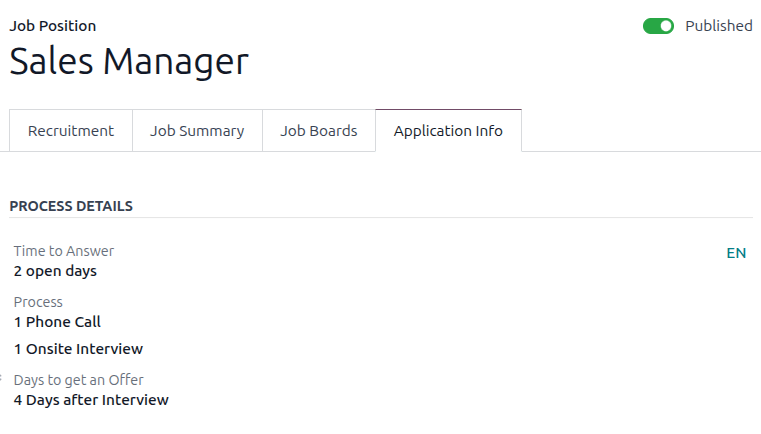
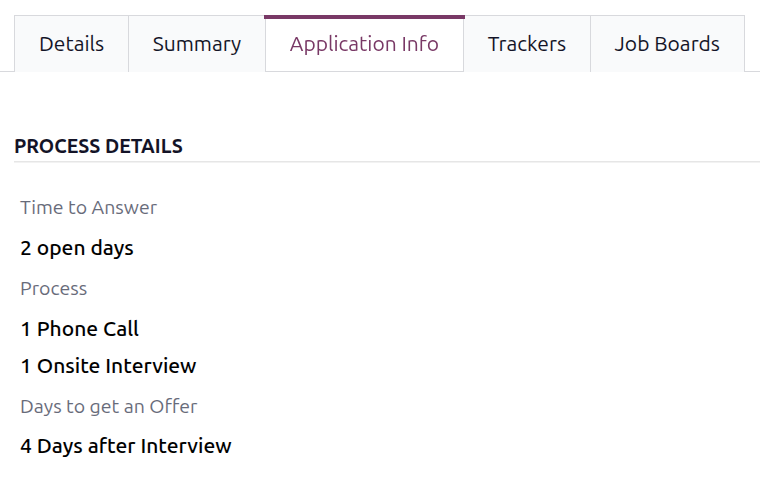
[IMP] Recruitment - Update job positions
X-original-commit: 04b95724496629f7d65195b7653931ffadc80f96

diff --git a/content/applications/hr/recruitment/new_job.rst b/content/applications/hr/recruitment/new_job.rst
@@ -2,28 +2,30 @@
 Job positions
 =============
 
-In Odoo's **Recruitment** application, all job positions are shown on the default dashboard in the
-**Recruitment** app, which includes both active and inactive positions.
+In Odoo's **Recruitment** application, all job positions are shown on the default *Job Positions*
+dashboard, which includes both active and inactive positions.
 
 Each job position is shown in an individual Kanban card. If the job position is active, and
-candidates can apply, a :guilabel:`PUBLISHED` banner appears in the top-right corner of the card.
+candidates can apply, a green :guilabel:`Published` banner appears in the top-right corner of the
+card.
 
-View submitted applications by clicking anywhere on a job position card.
+View submitted applications by clicking anywhere on a job position card, except the
+:icon:`fa-clock-o` :guilabel:`(Activities)` icon, the :guilabel:`Job Page` button, or the
+:guilabel:`Configure` button.
 
 .. image:: new_job/jobs.png
    :alt: Main dashboard view of Recruitment app showing all job positions.
 
-.. _job-position/create-job-position:
+.. _recruitment/new_job/create-job-position:
 
-Create a new job position
-=========================
+Create a job position
+=====================
 
-To create a new job position from the main dashboard in the **Recruitment** app, click the
-:guilabel:`New` button in the top-left corner, and a :guilabel:`Create a Job Position` pop-up window
-appears.
+To create a job position from the main dashboard in the **Recruitment** app, click the
+:guilabel:`New` button in the top-left corner, and a *Create a Job Position* pop-up window appears.
 
 First, enter the name of the :guilabel:`Job Position` (such as `Sales Manager`, `Mechanical
-Engineer`, etc.) in the field.
+Engineer`, etc.) in the corresponding field.
 
 Next, enter an :guilabel:`Application email` by typing in the first half of the email address in the
 first field, then select the second half of the email using the drop-down menu in the second field.
@@ -36,143 +38,177 @@ button to delete it.
 .. image:: new_job/job-title.png
    :alt: Create a new job position.
 
-Once the job position has been created, it appears as a card in the Kanban view on the main
-**Recruitment** app dashboard.
+.. note::
+   Once the :guilabel:`Create` button is clicked, the *Applications* dashboard for the newly created
+   job loads. The *Applications* dashboard is empty, as there are no applicants. Click the
+   :guilabel:`Job Positions` breadcrumb to return to the main **Recruitment** app dashboard.
 
-.. _recruitment/new_job_position/edit:
+.. _recruitment/new_job/configure-job-position:
 
-Edit a new job position
------------------------
+Configure a job position
+------------------------
 
-After the job position is created, it is time to enter the details for the position. Click on the
-:icon:`fa-ellipsis-v` :guilabel:`(Dropdown menu)` icon in the upper-right corner of the relevant
-card to reveal several options, and then click :guilabel:`Configuration` to edit the details.
+Once the job position has been :ref:`created <recruitment/new_job/create-job-position>`, the details
+must be configured. On the main **Recruitment** app dashboard, click the :guilabel:`Configure`
+button at the end of the Kanban card, and the detailed job position form loads.
 
-.. image:: new_job/edit-job.png
-   :alt: Edit the job position card.
+Configure the *Details*, *Summary*, *Application Info*, and *Trackers* tabs, as described below.
 
-Recruitment tab
-~~~~~~~~~~~~~~~
+Details tab
+~~~~~~~~~~~
 
-All the basic information about the job position is listed under the :guilabel:`Recruitment` tab.
+All the basic details about the job position are housed in the *Details* tab.
 
 None of the fields are required, but it is important to configure and populate the
-:guilabel:`Department`, :guilabel:`Job Location`, :guilabel:`Employment Type` fields, and the
-:guilabel:`Job Summary` tab, as they are all visible to prospective applicants on the website.
+:guilabel:`Department`, :guilabel:`Job Location`, and :guilabel:`Employment Type` fields, as they
+are all visible to prospective applicants on the website.
 
 .. note::
-   Some fields listed below may not appear depending on the database configuration and other
-   installed applications.
+   Some fields listed below may not appear depending on the installed apps and database
+   configuration.
 
-The fields can be filled out as follows:
+Enter the information in the following sections.
 
+.. _recruitment/new_job/hiring-process:
+
+Hiring process section
+**********************
+
+- :guilabel:`Recruiter`: Select the person responsible for recruiting this role.
+- :guilabel:`Interviewers`: Select who should perform the interviews. Multiple people can be
+  selected.
+- :guilabel:`Interview Form`: Select an interview form that applicants fill out prior to their
+  interview.
+- :guilabel:`Email Alias`: Enter an email address to which applicants can send a resumé. Once
+  emailed, Odoo automatically creates an application for them. If an email was entered when creating
+  the job position, this field is populated.
+- :guilabel:`Website`: Select the website the job is published on.
+
+Job section
+***********
+
+- :guilabel:`Company`: Select the company the job is for. This field only appears if using a
+  multi-company database.
 - :guilabel:`Department`: Select the relevant department for the job position. This is visible on
   the website.
 - :guilabel:`Job Location`: Select the physical address for the job. If the job position is remote,
   leave this field blank. This is visible on the website.
-- :guilabel:`Industry`: Select the relevant industry the job position falls under. This field
-  corresponds to the industries on job boards. Odoo comes with 86 preconfigured industries. It is
-  *not* recommended to add a new industry, as it may hide the job position during some searched on
-  the various job boards.
-- :guilabel:`Email Alias`: Enter an email address to which applicants can send a resumé. Once
-  emailed, Odoo automatically creates an application for them. If an email was entered when creating
-  the job position, this field is populated.
-- :guilabel:`Employment Type`: select what type of position the job is, using the drop-down menu.
-  The default options are :guilabel:`Permanent`, :guilabel:`Temporary`, :guilabel:`Seasonal`,
-  :guilabel:`Full-Time`, :guilabel:`Intern`, :guilabel:`Student`, :guilabel:`Apprenticeship`,
-  :guilabel:`Thesis`, :guilabel:`Statutory`, and :guilabel:`Employee`. Depending on the installed
-  localization, other options may be available. This is visible on the website.
-- :guilabel:`Working Schedule`: Select the working schedule for the job position. Odoo provides one
-  working schedule by default, :guilabel:`Standard 40 hours/week`, but all working schedules in the
-  database are available.
+
+Job posting section
+*******************
+
+- :guilabel:`Published`: When the job position is ready to be published on the website, click the
+  :guilabel:`Published` toggle to publish the job position. The toggle changes to green, indicating
+  the listing is live on the website.
+- :guilabel:`Target`: Enter the number of employees to be hired for this position.
+- :guilabel:`Expected Skills`: Select all the desired skills for the job position in this field. To
+  add a skill, click the :icon:`fa-plus` :guilabel:`(plus sign)` icon, and select the *Category*,
+  *Skill*, and *Skill Level* for each skill added. The skills presented are :ref:`configured in the
+  Employees app <employees/skills>`.
+- :guilabel:`Expected Degree`: Select the level of education desired, using the drop-down menu. The
+  default options are: :guilabel:`Graduate`, :guilabel:`Bachelor Degree`, :guilabel:`Master Degree`,
+  and :guilabel:`Doctoral Degree`.
 - :guilabel:`Salary Range`: Enter both the minimum and maximum salaries offered for the position in
   the two fields. Then, set the last field to the time-frame for the salary range. The default
   options are :guilabel:`Hour`, :guilabel:`Day`, :guilabel:`Week`, :guilabel:`Bi-Week`,
   :guilabel:`Month`, and :guilabel:`Year`.
-- :guilabel:`Expected Skills`: Select all the desired skills for the job position, using the
-  drop-down menu. The skills presented are :ref:`configured in the Employees app
-  <employees/skills>`.
-- :guilabel:`Company`: Select the company the job is for. This field only appears if using a
-  multi-company database.
-- :guilabel:`Mission Dates`: Using the calendar selector, set the start date for the job position.
-  If the job is temporary and has a specific end date, set the end date in the second field.
-- :guilabel:`Target`: Enter the number of employees to be hired for this position.
-- :guilabel:`Website`: Select the website the job is published on.
-- :guilabel:`Recruiter`: Select the person responsible for recruiting this role.
-- :guilabel:`Interviewers`: Select who should perform the interviews. Multiple people can be
-  selected.
-- :guilabel:`Interview Form`: select an :ref:`Interview form <recruitment/interview>` that
-  applicants fill out prior to their interview.
+
+Contract section
+****************
+
+- :guilabel:`Employment Type`: Select what type of position the job is, using the drop-down menu.
+  The default options are :guilabel:`Permanent`, :guilabel:`Temporary`, :guilabel:`Interim`,
+  :guilabel:`Seasonal`, :guilabel:`Full-Time`, :guilabel:`Part-Time`, :guilabel:`Intern`,
+  :guilabel:`Student`, :guilabel:`Apprenticeship`, :guilabel:`Thesis`, :guilabel:`Statutory`, and
+  :guilabel:`Employee`. Depending on the installed localization, other options may be available.
+  This is visible on the website.
+- :guilabel:`Working Schedule`: Select the working schedule for the job position. Odoo provides one
+  working schedule by default, :guilabel:`Standard 40 hours/week`, but all working schedules in the
+  database are available.
 - :guilabel:`Contract Template`: Select a contract template to be used when offering the job to a
   candidate.
 
-.. image:: new_job/recruitment-tab.png
+.. image:: new_job/details.png
    :alt: The job information details in the Recruitment tab.
 
-Job summary tab
-~~~~~~~~~~~~~~~
+Summary tab
+~~~~~~~~~~~
 
-Enter the job description in the :guilabel:`Job Summary` tab. This description is visible on the
-website.
+Enter the complete job description in the *Summary* tab. This description is visible on the website,
+and should convey any relevant information for the position that is **not** covered or explained in
+the *Details* tab. This may include information such as specific tasks the job requires, any
+required past experience, or uncommon benefits or compensation.
 
-.. image:: new_job/job-summary.png
+.. image:: new_job/summary.png
    :alt: The summary of the position in the Job Summary tab.
+
+.. _recruitment/new_job/application_info:
 
 Application info tab
 ~~~~~~~~~~~~~~~~~~~~
 
-The :guilabel:`Process Details` section of the :guilabel:`Application Info` tab contains information
-that is displayed online for the job position. This informs the applicants of the timeline and steps
-for the recruitment process, so they know when to expect a reply.
+The *Process Details* section of the *Application Info* tab contains information that is displayed
+online for the job position. This informs the applicants of the timeline and steps for the
+recruitment process, so they know when to expect a reply.
 
 The following fields are populated by default, but can be modified to suit the recruitment timeline
 of the business:
 
-- :guilabel:`Time to Answer`: Enter the number of days before the applicant is contacted.
-  :guilabel:`2 open days` populates this field by default.
-- :guilabel:`Process`: Enter the various stages the candidate goes through during the recruitment
-  process. By default, two process steps are visible: :guilabel:`1 Phone Call` and :guilabel:`1
-  Onsite Interview`.
-- :guilabel:`Days to get an Offer`: Enter the number of days before the applicant should expect an
-  offer after the recruitment process has ended. The default is :guilabel:`4 Days after Interview`.
+- :guilabel:`Time to Answer`: The number of days before the applicant is contacted. :guilabel:`2
+  open days` populates this field by default.
+- :guilabel:`Process`: The various stages the candidate goes through during the recruitment process.
+  By default, two process steps are visible: :guilabel:`1 Phone Call` and :guilabel:`1 Onsite
+  Interview`.
+- :guilabel:`Days to get an Offer`: The number of days before the applicant should expect an offer
+  after the recruitment process has ended. The default is :guilabel:`4 Days after Interview`.
 
 .. image:: new_job/app-info.png
    :alt: Enter job information details in the recruitment tab.
 
 .. note::
-   The :guilabel:`Process Details` section is a text field. All answers are typed in rather than
-   selected from a drop-down menu. The text is displayed on the website exactly as it appears in
-   this tab.
+   The *Process Details* section of the *Application Info* tab is a text field. All answers are
+   typed in rather than selected from a drop-down menu. The text is displayed on the website exactly
+   as it appears in this tab.
 
-.. _recruitment/interview:
+Trackers tab
+~~~~~~~~~~~~
 
-Create interview form
----------------------
+When reaching potential applicants, recruiters often share the job position across multiple
+websites, including social media sites, job board sites, and third-party hosting sites. The
+*Trackers* tab provides a centralized place for recruiters to keep a record of all the places a
+tracking link has been shared. This allows recruiters to determine which sites were the most
+successful in terms of receiving applications from them.
 
-An *Interview Form* is used to determine if a candidate is a good fit for a job position. Interview
-forms can be as specific or general as desired, and can take the form of a certification, an exam,
-or a general questionnaire. Interview forms are determined by the recruitment team.
+.. tip::
+   Before creating trackers, first :ref:`publish <post-job/website>` the job on the company website.
 
-Before creating an interview form, ensure the proper settings are enabled. Navigate to
-:menuselection:`Recruitment app --> Configuration --> Settings`, and under the
-:guilabel:`Recruitment Process` section, ensure the :guilabel:`Send Interview Survey` option is
-enabled.
+To add a tracking link, click on the *Trackers* tab, click :guilabel:`Add a line`, and a blank line
+appears at the top of the list. Configure the following fields for each tracker:
 
-Since there are no preconfigured forms in Odoo, all interview forms must be created. To create an
-interview form, start from the :guilabel:`Recruitment` tab of the :guilabel:`Job Position` form. In
-the :guilabel:`Interview Form` field, enter a name for the new interview form. As the name is typed,
-several options populate beneath the entry: :guilabel:`Create (interview form name)`,
-:guilabel:`Search More...`, and :guilabel:`Create and edit...`. Click :guilabel:`Create and edit...`
-and a :guilabel:`Create Interview Form` pop-up window appears.
+- :guilabel:`Campaign`: Select the :ref:`campaign <marketing/social-campaigns/new-campaign>` the job
+  position falls under using the drop-down menu.
+- :guilabel:`Source`: Select where the tracker was used using the drop-down menu. There are ten
+  default options, such as :guilabel:`Search engine`, :guilabel:`Newsletter`, and
+  :guilabel:`LinkedIn`, but more may be available depending on the installed applications and
+  created events.
+- :guilabel:`Medium`: Select the method used to share the tracker from a list of ten default
+  options, such as :guilabel:`Banner`, :guilabel:`Email`, and :guilabel:`Google Adwords`.
+- :guilabel:`Tracker URL`: Once the :guilabel:`Campaign`, :guilabel:`Source`, and :guilabel:`Medium`
+  are defined, Odoo automatically creates the corresponding tracking link. Click :guilabel:`URL`
+  :icon:`fa-clipboard` to copy the link to the clipboard, then share the link where appropriate.
+- :guilabel:`Email`: Once the :guilabel:`Campaign`, :guilabel:`Source`, and :guilabel:`Medium` are
+  defined, Odoo automatically creates the corresponding email. Click :guilabel:`Email`
+  :icon:`fa-clipboard` to copy the email address to the clipboard, then share the email where
+  appropriate.
 
-.. image:: new_job/blank-interview-form.png
-   :alt: The blank interview form pop-up window.
+.. image:: new_job/trackers.png
+   :alt: The list of all tracked links for the job position.
 
-.. note::
-   The option :guilabel:`Search More...` only appears if there are any interview forms already
-   created. If no interview forms exist, the only options available are :guilabel:`Create (interview
-   form name)`, and :guilabel:`Create and edit...`.
+Job boards tab
+~~~~~~~~~~~~~~
 
-Proceed to fill out the interview form pop-up window as a typical survey. For specific directions on
-how to create a survey, refer to the :doc:`survey essentials <../../marketing/surveys/create>`
-document, which provides step-by-step instructions on how to create and configure a survey.
+The *Job Boards* tab is automatically populated as the job position is :ref:`shared on a job board
+<post-job/boards>`. As each listing is created, the information appears in this tab.
+
+.. seealso::
+   :doc:`post_job`

diff --git a/content/applications/hr/recruitment/velocity_analysis.rst b/content/applications/hr/recruitment/velocity_analysis.rst
@@ -3,9 +3,9 @@ Velocity analysis
 =================
 
 The *Velocity Analysis* report provides information on how long applicants stay in each stage of the
-recruitment process. This is important, as every job position has specific :ref:`process details
-<recruitment/new_job_position/edit>` that state the length of time applicants should expect to wait
-between specific stages.
+recruitment process. This is important, as every job position has specific :ref:`hiring process
+details <recruitment/new_job/hiring-process>` that state the length of time applicants should expect
+to wait between specific stages.
 
 Knowing how long applicants remain in each stage can help highlight possible bottlenecks. Analyzing
 this data allows the recruitment team to assess each stage, identify any issues, and pivot their

diff --git a/content/applications/essentials/property_fields.rst b/content/applications/essentials/property_fields.rst
@@ -199,10 +199,10 @@ models. Once set, the property is shared by all records that are linked to the s
        * - :guilabel:`Recruitment`
          - :ref:`Applicant <recruitment/quick-add-applicant>`
 
-           :ref:`Job Position <recruitment/new_job_position/edit>`
+           :ref:`Job Position <recruitment/new_job/configure-job-position>`
 
            Candidate
-         - :ref:`Job position <job-position/create-job-position>`
+         - :ref:`Job position <recruitment/new_job/create-job-position>`
 
            :ref:`Company <general/companies/company>`
 

diff --git a/content/applications/marketing/social_marketing/social_campaigns.rst b/content/applications/marketing/social_marketing/social_campaigns.rst
@@ -53,6 +53,8 @@ Clicking :guilabel:`Delete` removes the stage entirely.
    viewed as a list, by selecting the :guilabel:`List` option, located under the search bar, in the
    upper-right corner.
 
+.. _marketing/social-campaigns/new-campaign:
+
 Create social marketing campaigns
 =================================
 
